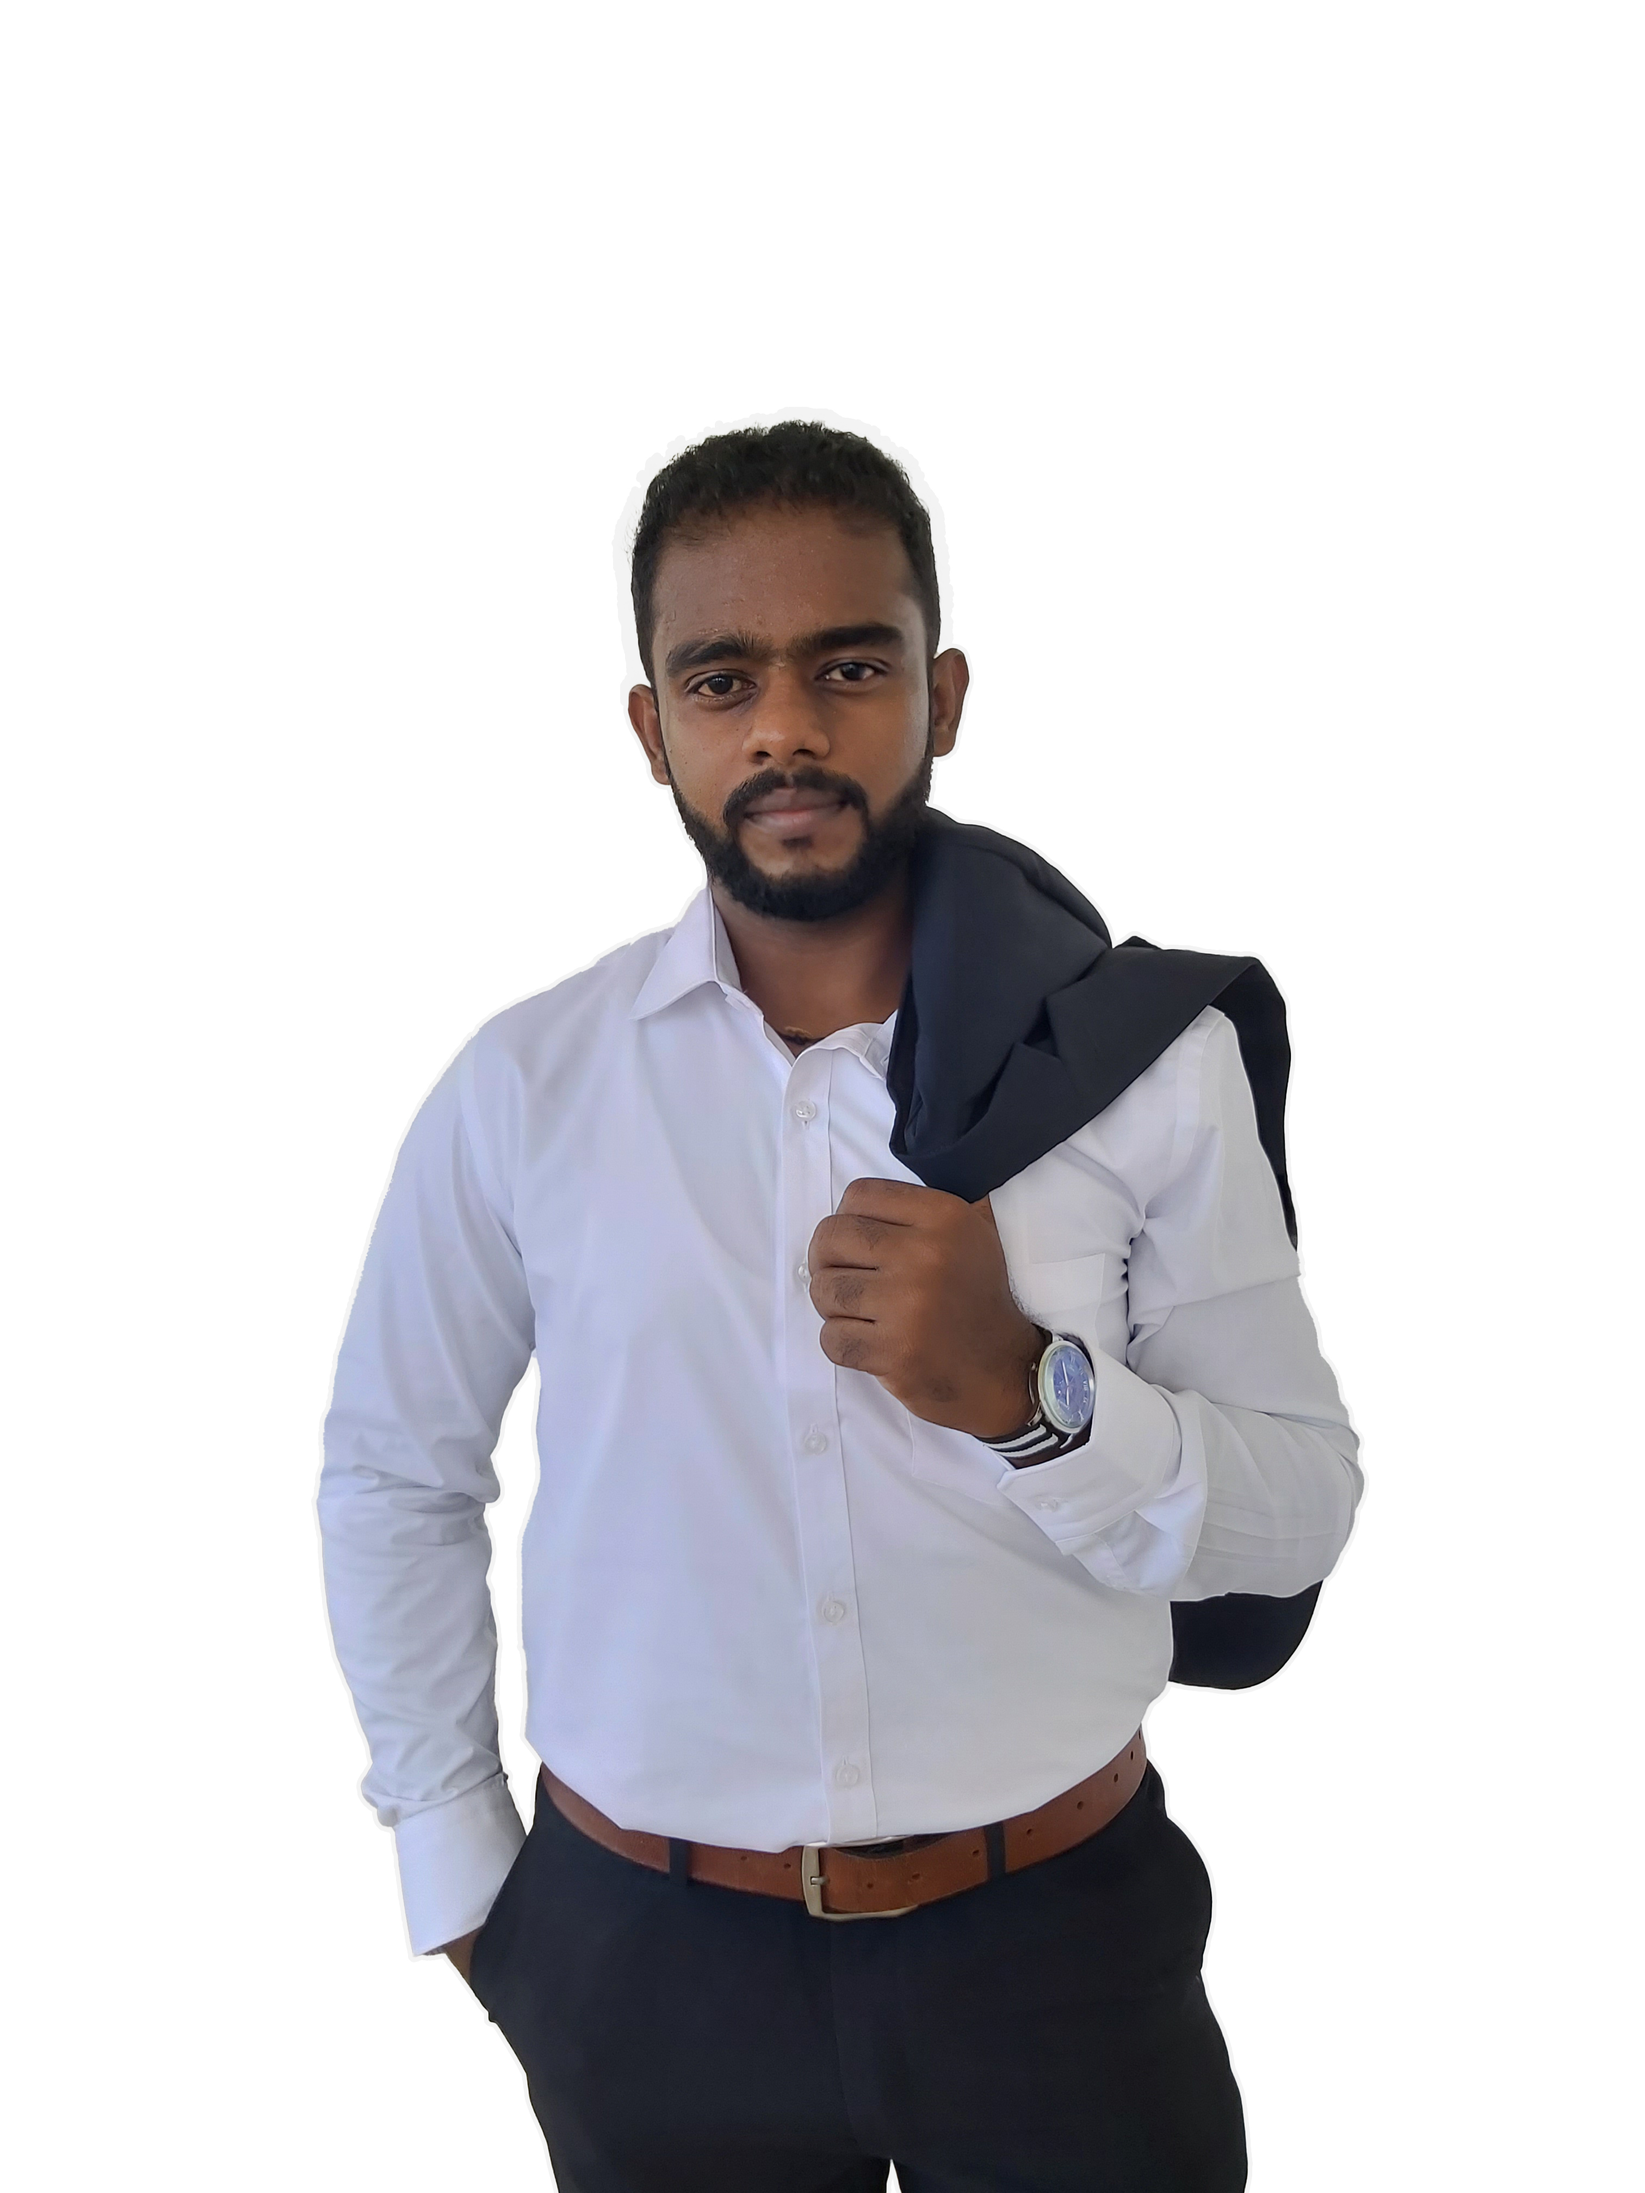
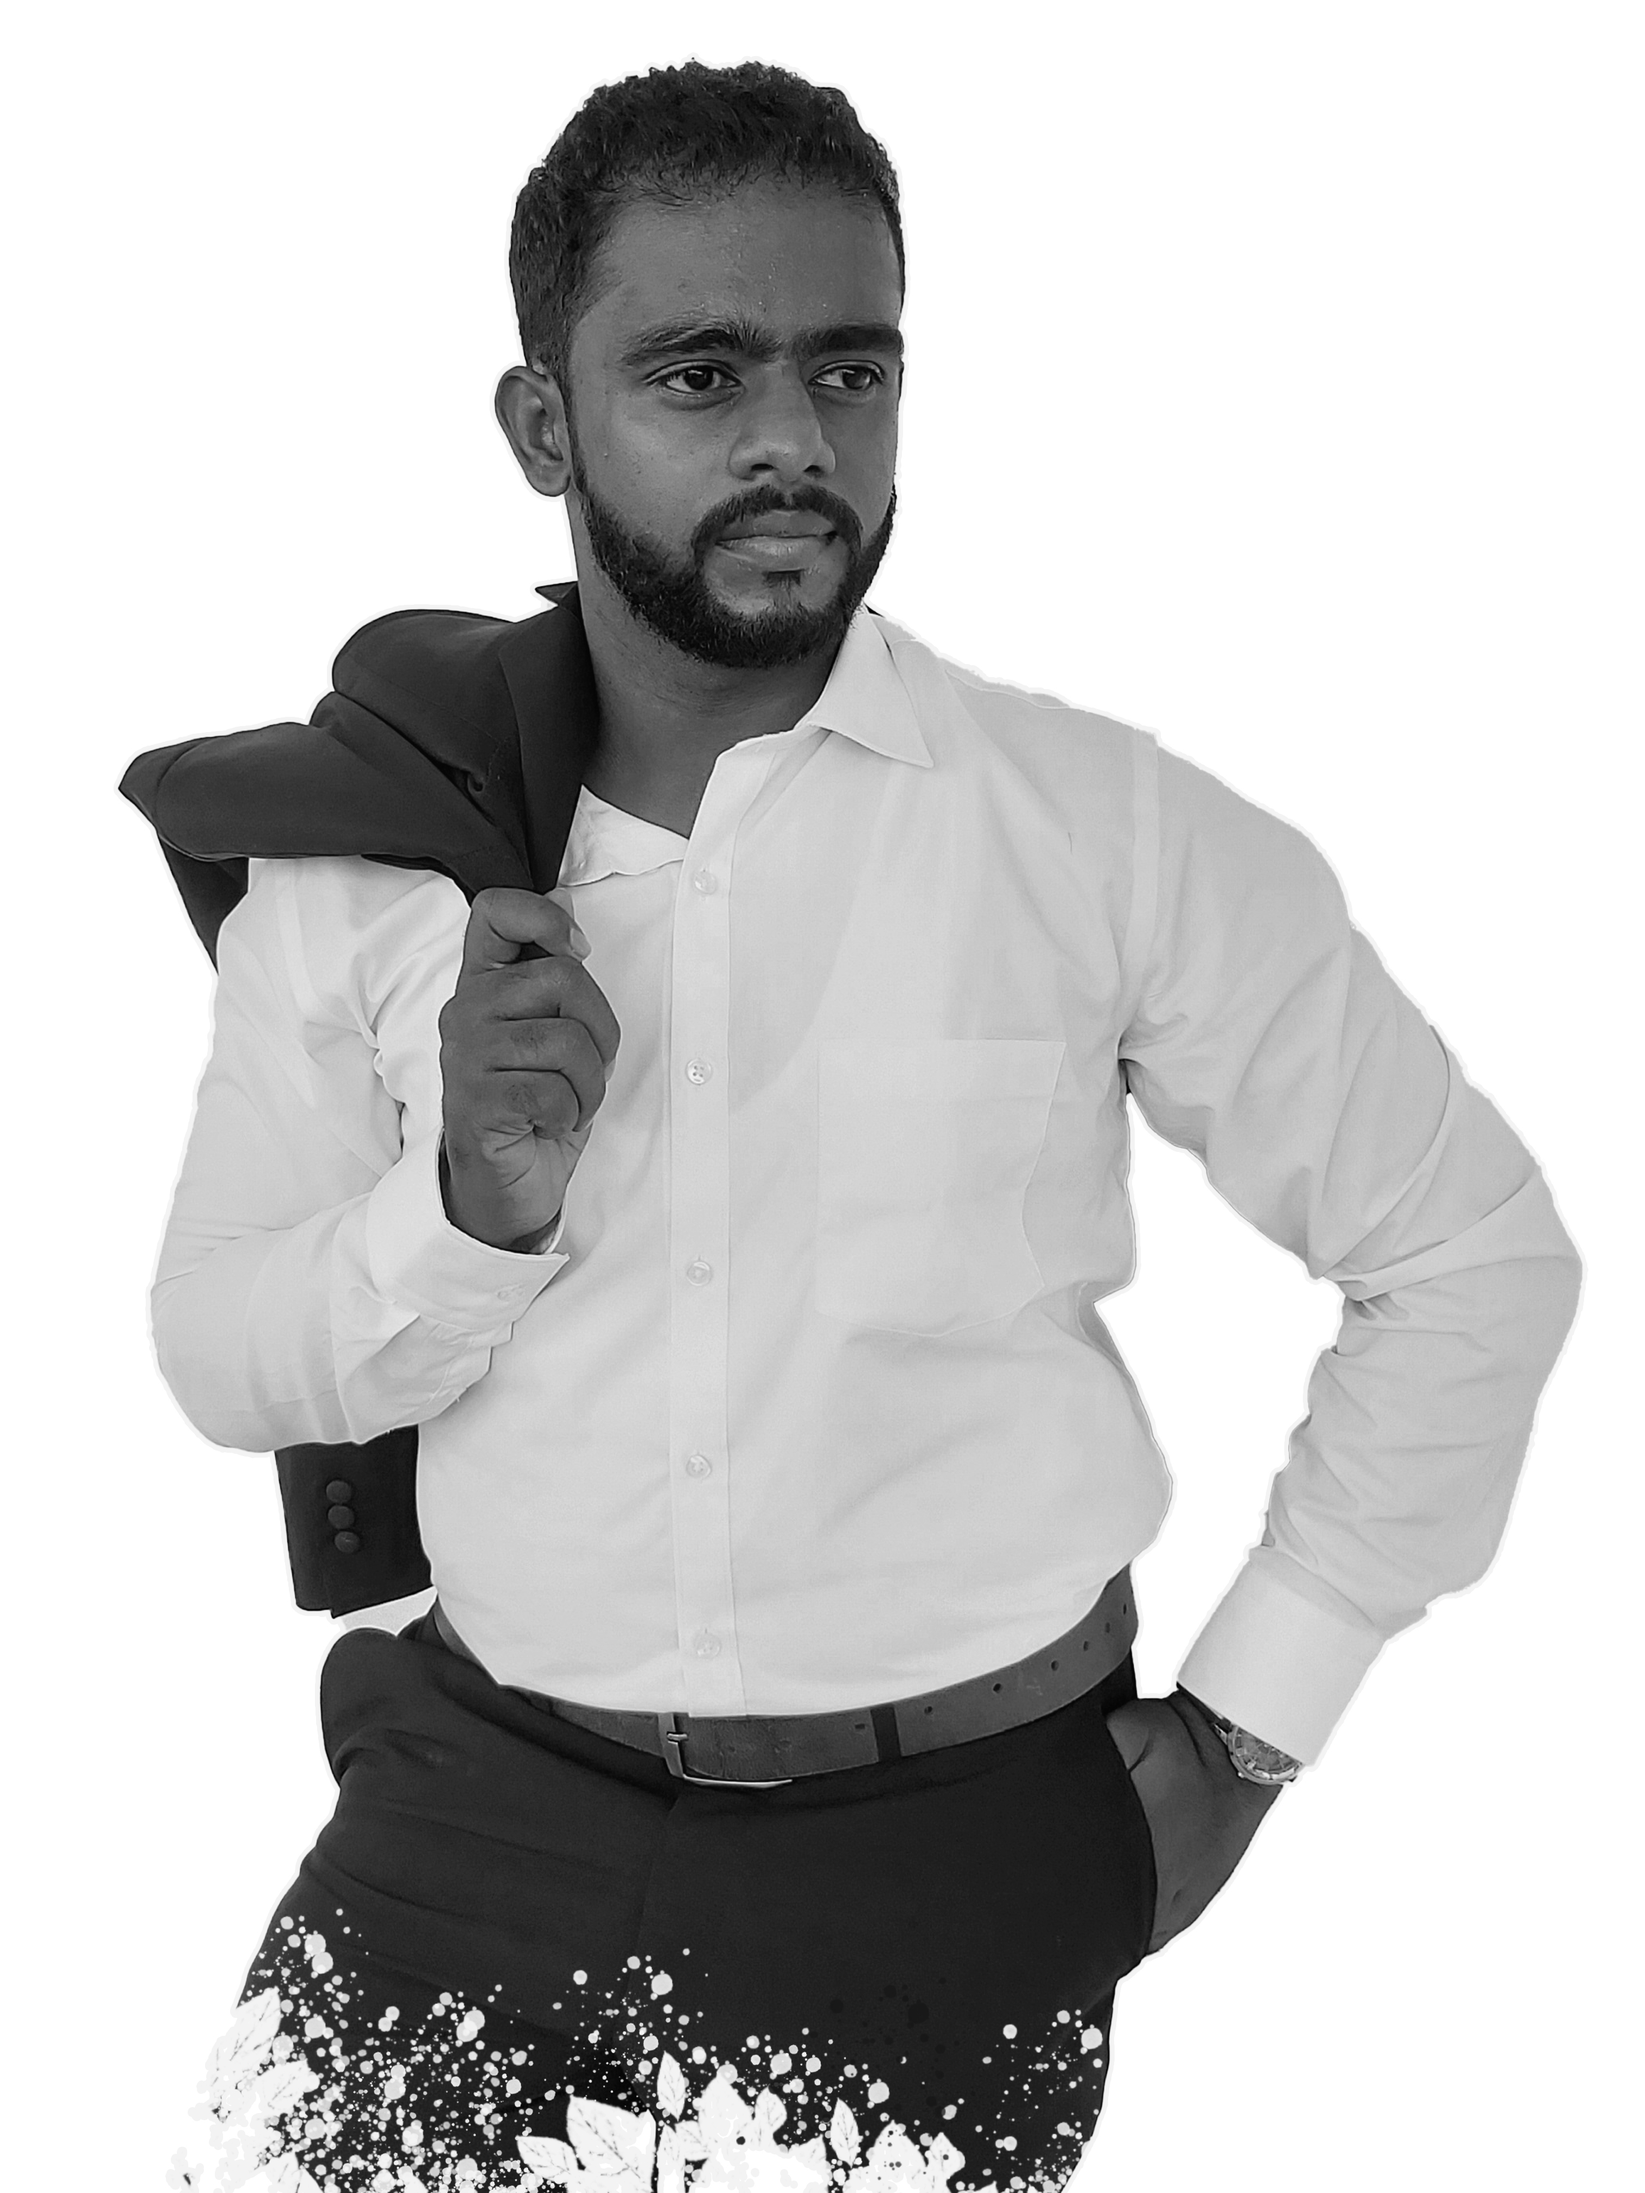
Add files via upload

diff --git a/index.html b/index.html
@@ -68,11 +68,12 @@
 	<div class="container" id="about_part">
 		<div class="row align-items-center">
 
-			<div class="col-12 col-md-6 col-sm-12 col-lg-6 justify-content-start ">
-				<img src="img/myl2.png" class="mx-auto d-block img-fluid" style="height: 100%;width: 90%;">
+			<div class="col-12 col-md-6 col-sm-12 col-lg-6 align-bottom">
+
+				<img src="img/my2.png" class="mx-auto d-block img-fluid mt-5" style="height: 100%;width: 90%;">
 			</div>
 
-			<div class="col-12 col-md-6 col-sm-12 col-lg-6  text-white text-justify">
+			<div class="col-12 col-md-6 col-sm-12 col-lg-6  text-white mb-5">
 				<br><br><br><br><br><br>
 				<h1 class="text-white font-weight-bold">About Me</h1>
 				<h5 class="text-warning font-weight-bold">Hi, im Her To Help Your Next Project </h5>
